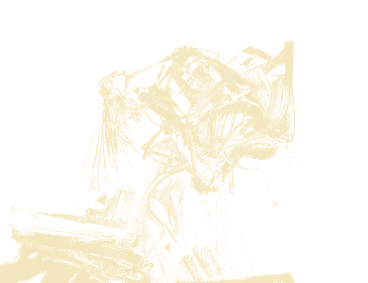
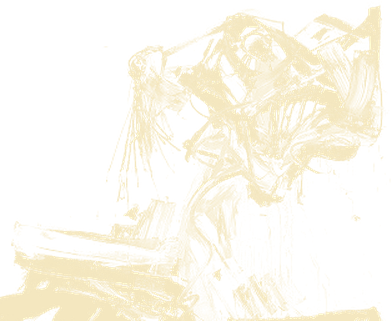
v2: align the wordmark with the brand image; quieter version tag
- Trim the ink crop to its own edges so image, name and tagline share
  one width
- ΠΟΛΥΦΗΜΟΣ is drawn as SVG text stretched to exactly that width, so
  it lines up whatever font loads
- v2 is now a small muted note at the end of the tagline

Claude-Session: https://claude.ai/code/session_019L2rHXxeBBuTid66sKdRZq

diff --git a/v2/style.css b/v2/style.css
@@ -562,10 +562,12 @@ button.danger { background: #7a2f23; border-color: #b0493a; color: #fff; }
   padding: 0;
 }
 .emblem { display: block; width: 100%; height: auto; }
-.brand-name { display: flex; align-items: baseline; justify-content: space-between; gap: 6px; }
-.brand .wordmark { font-size: 24px; letter-spacing: .06em; white-space: nowrap; line-height: 1; }
-.brand .ver { font-size: 11px; }
+.wordmark-svg { display: block; width: 100%; height: auto; overflow: visible; }
+.wordmark-svg text { font-family: var(--f-display); font-size: 150px; fill: var(--text); }
+.brand-foot { display: flex; align-items: baseline; justify-content: space-between; gap: 8px; }
 .brand .tagline { font-size: 12.5px; line-height: 1.2; }
+/* the version is a quiet footnote to the name */
+.brand .ver { font-family: var(--f-mono); font-size: 11px; color: var(--muted); background: none; padding: 0; border-radius: 0; opacity: .8; }
 .bar-main { display: flex; flex-direction: column; gap: 14px; min-width: 0; padding-top: 6px; }
 .bar-top { display: flex; flex-wrap: wrap; align-items: center; gap: 12px 24px; }
 .bar-main .patterns { margin-left: 0; }
@@ -578,9 +580,9 @@ button.danger { background: #7a2f23; border-color: #b0493a; color: #fff; }
   .bar { grid-template-columns: 1fr; }
   .brand { width: 100%; aspect-ratio: auto; display: grid; grid-template-columns: 96px 1fr; grid-template-rows: auto auto; column-gap: 14px; align-items: end; padding: 0; }
   .emblem { grid-row: 1 / span 2; }
-  .brand-name, .brand .tagline { grid-column: 2; }
-  .brand .wordmark { font-size: 22px; }
-  .brand-name { justify-content: flex-start; gap: 10px; }
+  .wordmark-svg, .brand-foot { grid-column: 2; }
+  .wordmark-svg { width: min(100%, 240px); }
+  .brand-foot { justify-content: flex-start; gap: 10px; }
 }
 
 .swing-ctl { display: inline-flex; align-items: center; gap: 8px; }

diff --git a/v2/index.html b/v2/index.html
@@ -14,12 +14,14 @@
 <div class="app">
   <header class="bar">
     <div class="brand">
-      <img class="emblem" src="img/polyphemus-head.png" alt="" width="196" height="151">
-      <div class="brand-name">
-        <span class="wordmark" lang="el">ΠΟΛΥΦΗΜΟΣ</span>
+      <img class="emblem" src="img/polyphemus-head.png" alt="" width="196" height="160">
+      <svg class="wordmark-svg" viewBox="0 -8 1000 112" role="img" aria-label="Polyphemus">
+        <text x="0" y="100" textLength="1000" lengthAdjust="spacing" lang="el">ΠΟΛΥΦΗΜΟΣ</text>
+      </svg>
+      <div class="brand-foot">
+        <span class="tagline">polyrhythmic step sequencer</span>
         <span class="ver">v2</span>
       </div>
-      <span class="tagline">polyrhythmic step sequencer</span>
     </div>
 
     <div class="bar-main">
